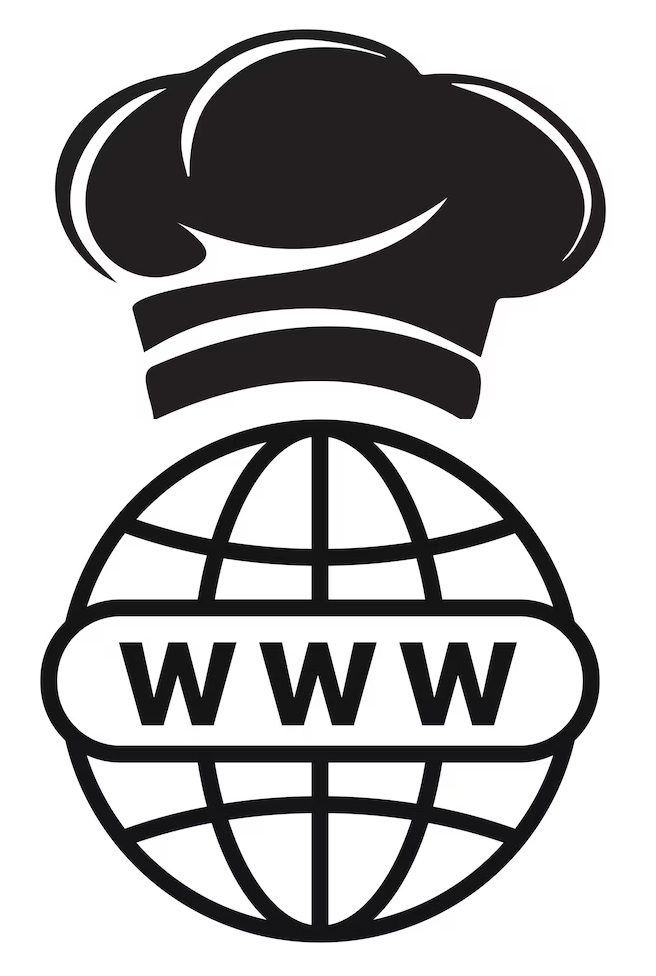
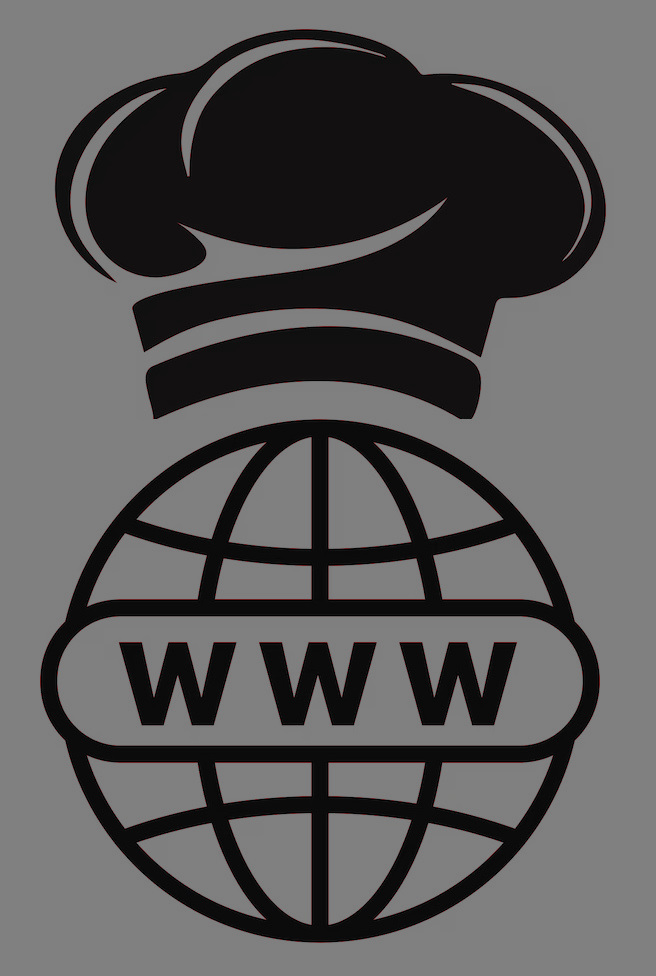
changed background color of all elements to grey

diff --git a/resources/style.css b/resources/style.css
@@ -1,7 +1,8 @@
 *{
     margin:0;
     padding:0;
-    background-color: white
+    background-color: #808080
+    
 }
 
 .price {
@@ -27,7 +28,7 @@ header{
     display: flex;
     justify-content: space-between;
     height: 15vh;
-    
+    background-color: #808080;
     align-items: center;
 
 }
@@ -36,12 +37,15 @@ header{
     padding: 0px;
     margin:0px;
     height: 15vh;
-    padding-right: 5px;
+    padding-right: px;
 }
 
 .logo img{
     width: 90px;
+    
 }
+
+
 .nav-links ol{
 list-style: none;
 margin: 5px 10px;
@@ -50,6 +54,7 @@ justify-content: space-between;
 }
 .nav-links ol li{
     padding:10px;
+    
 }
 
 .main-heading {
